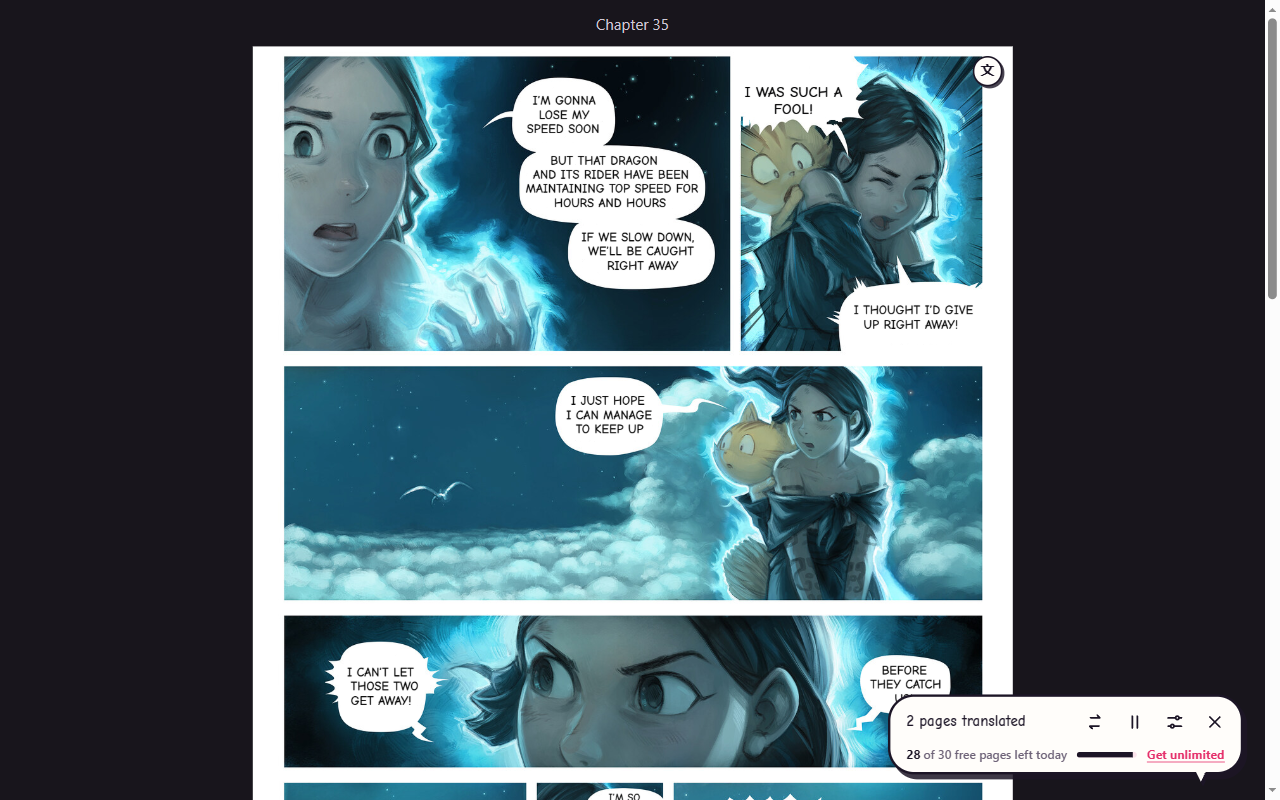
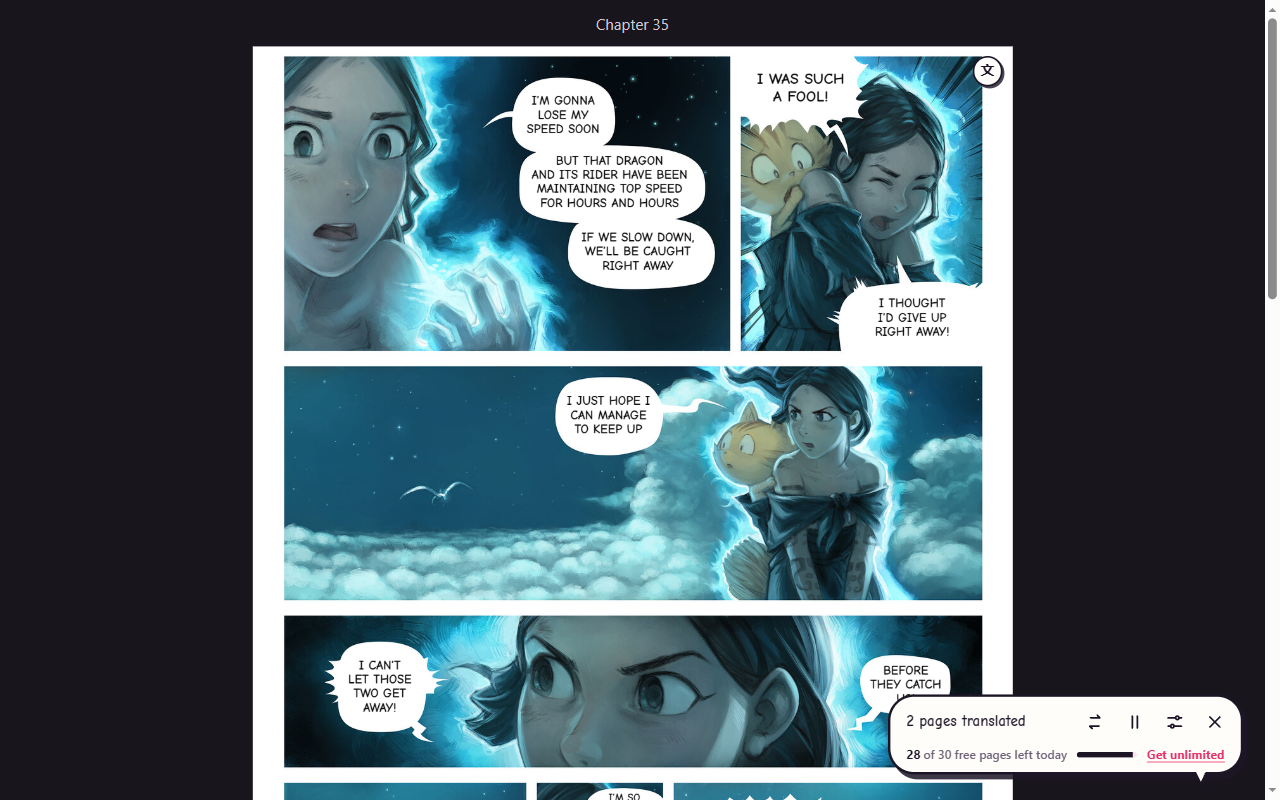
Quality run, store and website images after the lettering changes

diff --git a/tools/quality/CHECKLIST.md b/tools/quality/CHECKLIST.md
@@ -4,29 +4,44 @@ Every text item on the 11 test pages, checked at full resolution in `out/<page>-
 (original crop beside the translated one, made by `sheet.py`). Model: qwen3-vl:4b-instruct.
 
 Columns: **Tr** translated · **Sense** the English means what the Japanese says · **Erased** no
-ghost of the original left · **Bg** background kept as it was · **Fits** inside its bubble or
-source area, with margin · **Outl** outline only where the original had one.
+ghost of the original left · **Bg** background kept as it was · **Fits** see below · **Outl**
+outline only where the original had one.
 
-✓ ok · ✗ fails · ~ acceptable but weak · ⟳ fixed in code after this output was made, checked
-offline (unit test or mask dump), needs a full run to confirm on the page.
+✓ ok · ✗ fails · ~ acceptable but weak · – not there in this run.
+
+**Fits** is checked with `fits.py` and by eye. ✓ needs all of: inside its bubble or source area
+with margin; the middle of the English within 15 % of the original lettering's middle (in a closed
+bubble, at the height of the bubble's middle); at least 85 % of the size allowed (about the
+original lettering's size), unless the lines already fill the original's height; lines on one
+centre. ✗ for more than 25 % off-centre, or smaller than 75 % of the allowed size while filling
+less than 70 % of the original's height (one long small line where wrapping would allow larger
+text). Slanted sound effects are lettered along the original's axis and checked by eye.
 
 ## Which run each page's output comes from
 
-All pages: one full run on 2026-11-22 (`run.mjs`), translator code as of the commit that adds this
-line, with the extension's helper models (`models/`, see the end): the text detector finds the
-bubbles, the vision model only looks for text on the artwork, and MI-GAN repaints the art under
-sound effects. 70.9 s for the 11 pages with nothing cached in Ollama; the old path (the vision model
-finds everything) was about 83 s the same way. With Ollama's prompt cache warm, 44.8 s against 62.8 s.
+All pages: one full run on 2026-11-22 (`run.mjs`, one page at a time), translator code as of the
+commit that adds this line, with the extension's helper models (`models/`, see the end). 72.3 s
+for the 11 pages with nothing cached in Ollama (70.9 s before); with Ollama's prompt cache warm,
+45.1 s (44.8 s before). The lettering changes cost no time: 12.3 s of the warm run is outside the
+model, 13.8 s before.
+
+Reading ahead (`--concurrency=2`: the first page alone, then two at a time): 38.2–38.6 s for the
+11 pages, 17.1–17.3 pages a minute against 13.9–14.4 one at a time; the first page is done after
+5.1–5.5 s either way. Three at a time is no faster (17.3–17.4 a minute). Ollama runs one request
+at a time for qwen3-vl ("model architecture does not currently support parallel requests",
+whatever OLLAMA_NUM_PARALLEL says; a copy of the model under another name shares the same runner),
+so the gain is one page's drawing, cleaning and lettering overlapping the other's model calls.
+More video memory would not help.
 
 ## E01P01 (5 items, 0 skipped)
 
 | # | Original | English | Tr | Sense | Erased | Bg | Fits | Outl | Notes |
 |---|---|---|---|---|---|---|---|---|---|
-| 1 | …これで 出来上がり | …And that's it. | ✓ | ✓ | ✓ | ✓ | ✓ | ✓ | translucent bubble kept |
+| 1 | …これで 出来上がり | …And that's it, done. | ✓ | ✓ | ✓ | ✓ | ✓ | ✓ | translucent bubble kept; two lines like the original |
 | 2 | ぱらぱら (SFX) | FLUTTER | ✓ | ✗ | ✓ | ✓ | ✓ | ✓ | 4b reads はらはら; should be SPRINKLE. 8b reads it right |
-| 3 | …うーん 足りなかった かも | …Hmm, maybe not enough. | ✓ | ✓ | ✓ | ✓ | ✓ | ✓ | |
+| 3 | …うーん 足りなかった かも | …Hmm, maybe I still need more. | ✓ | ✓ | ✓ | ✓ | ✓ | ✓ | |
 | 4 | どばどば (SFX) | GLUG GLUG | ✓ | ✓ | ✓ | ✓ | ✓ | ✓ | 4b reads どはどは; the glossary maps it to GLUG GLUG |
-| 5 | ざぶん (SFX) | SPLASH | ✓ | ✓ | ✓ | ✓ | ✓ | ✓ | 4b reads さぶん (earlier さなん/きぶん). MI-GAN extends the cauldron's dark edge a little into the hole; the lettering covers it |
+| 5 | ざぶん (SFX) | SPLASH | ✓ | ✓ | ✓ | ✓ | ✓ | ✓ | 4b reads さぶん |
 
 ## E01P02 (3 items, 0 skipped)
 
@@ -34,13 +49,13 @@ finds everything) was about 83 s the same way. With Ollama's prompt cache warm, 
 |---|---|---|---|---|---|---|---|---|---|
 | 1 | うん… カンペキ | Yeah… perfect. | ✓ | ✓ | ✓ | ✓ | ✓ | ✓ | |
 | 2 | ダメ！ そんなことしちゃ だめなんだから | No way! You can't do that! | ✓ | ✓ | ✓ | ✓ | ✓ | ✓ | |
-| 3 | パシャ (SFX) | SPLISH | ✓ | ✓ | ✓ | ✓ | ~ | ✓ | the yellow splash beside it is kept (c3129ea) and the colour matches. Lettered at 25 px, smaller than the kana: the English is longer and stays within the source width |
+| 3 | パシャ (SFX) | SPLISH | ✓ | ✓ | ✓ | ✓ | ✓ | ✓ | the yellow splash beside it is kept |
 
 ## E35P01 (4 items, 0 skipped)
 
 | # | Original | English | Tr | Sense | Erased | Bg | Fits | Outl | Notes |
 |---|---|---|---|---|---|---|---|---|---|
-| 1 | ごめん もうすぐ リアが 切れそう | Sorry, the rear's about to cut off... | ✓ | ✗ | ✓ | ✓ | ✓ | ✓ | リア is Rea (magic energy in this comic): "my Rea's about to run out" |
+| 1 | ごめん もうすぐ リアが 切れそう | Sorry, the rear's about to cut off… | ✓ | ✗ | ✓ | ✓ | ✓ | ✓ | リア is Rea (magic energy in this comic). The text block no longer takes in art under the bubble |
 | 2 | あれ お目覚めね! | Hey, you're awake! | ✓ | ✓ | ✓ | ✓ | ✓ | ✓ | split from the bubble chained to it |
 | 3 | 大丈夫？ 寒くない？ | You okay? Not too cold? | ✓ | ✓ | ✓ | ✓ | ✓ | ✓ | |
 | 4 | オーラも 弱ってきて この寒さから 守れないの | My aura's weakening too — can't protect me from this cold anymore. | ✓ | ~ | ✓ | ✓ | ✓ | ✓ | "protect you" |
@@ -49,58 +64,58 @@ finds everything) was about 83 s the same way. With Ollama's prompt cache warm, 
 
 | # | Original | English | Tr | Sense | Erased | Bg | Fits | Outl | Notes |
 |---|---|---|---|---|---|---|---|---|---|
-| 1 | 私バカだった! | I was such a fool! | ✓ | ✓ | ✓ | ✓ | ✓ | ✓ | 24 px; was 18 before fitText stopped preferring a badly measured bubble shape |
-| 2 | もうすぐ加速もできなくなりそう | I'm about to lose the ability to accelerate too. | ✓ | ✓ | ✓ | ✓ | ✓ | ✓ | |
-| 3 | でもあのドラゴンと乗り手は何時間も何時間もスピードを保ってる | But that dragon and its rider have been maintaining top speed for hours and hours | ✓ | ✓ | ✓ | ✓ | ✓ | ✓ | |
-| 4 | 私たちがペースを落としたらすぐ捕まっちゃう | If we slow down, we'll be caught right away | ✓ | ✓ | ✓ | ✓ | ✓ | ✓ | |
+| 1 | 私 バカだった! | I was such a fool! | ✓ | ✓ | ✓ | ✓ | ✓ | ✓ | was lettered low in the area, and a hair tip below was erased: a bit of art at the panel corner was taken for a line of text. Now I WAS SUCH / A FOOL! where the original was, hair kept |
+| 2 | もうすぐ加速もできなくなりそう | I'm about to lose the ability to accelerate too. | ✓ | ✓ | ✓ | ✓ | ~ | ✓ | 16 of 20 px: the English is long for the bubble |
+| 3 | でもあのドラゴンと乗り手は何時間も何時間もスピードを保ってる | But that dragon and its rider have been maintaining top speed for hours and hours. | ✓ | ✓ | ✓ | ✓ | ✓ | ✓ | |
+| 4 | 私たちがペースを落としたらすぐ捕まっちゃう | If we slow down, we'll be caught right away. | ✓ | ✓ | ✓ | ✓ | ✓ | ✓ | |
 | 5 | すぐにあきらめてしまうと思ったのに! | I thought I'd give up right away! | ✓ | ✗ | ✓ | ✓ | ✓ | ✓ | wrong subject: "I thought they'd give up quickly!" |
 | 6 | なんとかうまくまければいいのだけど | I just hope I can manage somehow. | ✓ | ✗ | ✓ | ✓ | ✓ | ✓ | まく = shake off: "I hope we can lose them somehow" |
 | 7 | 捕まえられる前に! | Before they catch us! | ✓ | ✓ | ✓ | ✓ | ✓ | ✓ | |
 | 8 | それじゃ足りないあの二人を倒さないと! | I can't let those two escape! | ✓ | ✗ | ✓ | ✓ | ✓ | ✓ | "That's not enough, we have to take those two down!" |
-| 9 | …つかれた… | I'm so tired... | ✓ | ✓ | ✓ | ✓ | ✓ | ✓ | |
+| 9 | …つかれた… | I'm so tired… | ✓ | ✓ | ✓ | ✓ | ✓ | ✓ | |
 | 10 | いけない! | No! | ✓ | ✓ | ✓ | ✓ | ✓ | ✓ | |
-| 11 | でもわたし… | But me... | ✓ | ~ | ✓ | ✓ | ✓ | ✓ | "But I..." reads better |
+| 11 | でもわたし… | But me… | ✓ | ~ | ✓ | ✓ | ✓ | ✓ | "But I…" reads better |
 | 12 | しっかりしなきゃペッパー! | I've got to stay focused, Pepper! | ✓ | ✓ | ✓ | ✓ | ✓ | ✓ | |
-| 13 | …すごく… | So much... | ✓ | ✓ | ✓ | ✓ | ✓ | ✓ | |
+| 13 | …すごく… | So much… | ✓ | ✓ | ✓ | ✓ | ✓ | ✓ | |
 
 ## E35P03 (4 items, 0 skipped)
 
 | # | Original | English | Tr | Sense | Erased | Bg | Fits | Outl | Notes |
 |---|---|---|---|---|---|---|---|---|---|
-| 1 | そうなったら すぐに攻撃よ | If that's the case, we'll attack right away. | ✓ | ✓ | ✓ | ✓ | ✓ | ✓ | |
-| 2 | ああ この追跡劇も もうすぐ終わる | Ah, this chase scene's almost over. | ✓ | ✓ | ✓ | ✓ | ✓ | ✓ | white on a black bubble |
-| 3 | 今のあれ 見えた？ | Did you see what just happened? | ✓ | ✓ | ✓ | ✓ | ✓ | ✓ | |
-| 4 | まもなく 魔力切れに なりそうだ | Soon, our magic will run out. | ✓ | ✓ | ✓ | ✓ | ✓ | ✓ | white on a black bubble |
+| 1 | そうなったら すぐに攻撃よ | If that's the case, we'll attack right away. | ✓ | ✓ | ✓ | ✓ | ~ | ✓ | the middle line comes close to the outline on the left: the bubble's rows are measured to its light outline, not inside it |
+| 2 | まもなく 魔力切れに なりそうだ | We're gonna run out of magic power soon. | ✓ | ✓ | ✓ | ✓ | ✓ | ✓ | white on a black bubble |
+| 3 | ああ この追跡劇も もうすぐ終わる | Ah, this chase scene's almost over. | ✓ | ✓ | ✓ | ✓ | ✓ | ✓ | white on a black bubble |
+| 4 | 今のあれ 見えた？ | Did you see what just happened? | ✓ | ✓ | ✓ | ✓ | ✓ | ✓ | |
 
 ## E36P01 (3 items, 0 skipped)
 
 | # | Original | English | Tr | Sense | Erased | Bg | Fits | Outl | Notes |
 |---|---|---|---|---|---|---|---|---|---|
-| 1 | 謝罪だと? | Apologize? | ✓ | ✓ | ✓ | ✓ | ✓ | ✓ | |
-| 2 | 何を言っている! | What are you saying! | ✓ | ✓ | ✓ | ✓ | ✓ | ✓ | |
-| 3 | この愚か者を 牢屋に放り込め! | Throw this fool into jail! | ✓ | ✓ | ✓ | ✓ | ✓ | ✓ | 8b left this one untranslated |
+| 1 | 謝罪だと? | Apologize?! | ✓ | ✓ | ✓ | ✓ | ✓ | ✓ | |
+| 2 | 何を言っている! | What are you saying?! | ✓ | ✓ | ✓ | ✓ | ✓ | ✓ | |
+| 3 | この愚か者を 牢屋に放り込め! | Throw this fool into jail! | ✓ | ✓ | ✓ | ✓ | ✓ | ✓ | |
 
 ## E36P02 (5 items, 0 skipped)
 
 | # | Original | English | Tr | Sense | Erased | Bg | Fits | Outl | Notes |
 |---|---|---|---|---|---|---|---|---|---|
-| 1 | 魔法牢獄め! ああああ! | Magic prison! Aaah! | ✓ | ✓ | ✓ | ✓ | ✓ | ✓ | |
-| 2 | プシュウ… (SFX) | PSSSHH | ✓ | ✓ | ✓ | ✓ | ✓ | ~ | the cell bars behind it are repainted (MI-GAN); the old smoothing blurred them. The original has a dark drop shadow; ours has none |
-| 3 | ガラッ! (SFX) | CLANK! | ✓ | ✓ | ✓ | ✓ | ✓ | ✓ | outlined like the original, rotated to its angle; the white splash under it is repainted, not smeared |
+| 1 | プシュウ… (SFX) | PSSSHH | ✓ | ✓ | ✓ | ✓ | ✓ | ~ | the cell bars behind it are repainted (MI-GAN). The original has a dark drop shadow; ours has none |
+| 2 | 魔法牢獄め! ああああ! | Magic prison! Aaah! | ✓ | ✓ | ✓ | ✓ | ✓ | ✓ | |
+| 3 | ガラッ! (SFX) | CLANK! | ✓ | ✓ | ✓ | ✓ | ✓ | ✓ | outlined like the original, rotated to its angle |
 | 4 | もう! | Ugh! | ✓ | ✓ | ✓ | ✓ | ✓ | ✓ | |
-| 5 | 何もできないってことね! | So nothing can be done, huh? | ✓ | ~ | ✓ | ✓ | ✓ | ✓ | Pepper means herself: "So I can't do anything, huh?" The て against the bubble edge is erased |
+| 5 | 何もできないってことね! | So nothing can be done, huh? | ✓ | ~ | ✓ | ✓ | ✓ | ✓ | Pepper means herself: "So I can't do anything, huh?" |
 
 ## E36P03 (9 items, 0 skipped)
 
 | # | Original | English | Tr | Sense | Erased | Bg | Fits | Outl | Notes |
 |---|---|---|---|---|---|---|---|---|---|
 | 1 | しーっ ペッパー! | Shh! Pepper! | ✓ | ✓ | ✓ | ✓ | ✓ | ✓ | translucent bubble |
-| 2 | 私 バカだった! | I was a fool! | ✓ | ✓ | ✓ | ✓ | ✓ | ✓ | |
-| 3 | おとなしく して | Be quiet | ✓ | ✓ | ✓ | ✓ | ✓ | ✓ | no dangling comma |
+| 2 | 私 バカだった! | I was a fool! | ✓ | ✓ | ✓ | ✓ | ✓ | ✓ | was stepped and left of the middle: one row of the spiky bubble stopped at a speck of ink inside the lettering. Now I WAS / A FOOL! on one centre |
+| 3 | おとなしく して | Be quiet! | ✓ | ✓ | ✓ | ✓ | ✓ | ✓ | |
 | 4 | 一体 誰なの?! | Who are you? | ✓ | ✓ | ✓ | ✓ | ✓ | ✓ | |
-| 5 | シュウウ… (SFX) | FSSSH | ✓ | ✓ | ✓ | ✓ | ✓ | ~ | crystal glow kept, FSSSH centred on the original, the "…" dots erased. The bottle's light outline under シ is redrawn (MI-GAN; it used to be a smudge). The original's blue glow is not reproduced |
+| 5 | シュウウ… (SFX) | FSSSH | ✓ | ✓ | ✓ | ✓ | ✓ | ~ | the original's blue glow is not reproduced |
 | 6 | しーっ! 静かにして! | Shh! Be quiet! | ✓ | ✓ | ✓ | ✓ | ✓ | ✓ | |
-| 7 | 来て | Come here! | ✓ | ✓ | ✓ | ✓ | ✓ | ✓ | the text detector boxes it on its own |
+| 7 | 来て | Come here! | ✓ | ✓ | ✓ | ✓ | ~ | ✓ | two lines in the room below the line above; a little left of 来て |
 | 8 | ここから 出してあげる | I'll get you out of here! | ✓ | ✓ | ✓ | ✓ | ✓ | ✓ | |
 | 9 | シチミ? | Chitami? | ✓ | ✗ | ✓ | ✓ | ✓ | ✓ | name: Shichimi |
 
@@ -108,26 +123,26 @@ finds everything) was about 83 s the same way. With Ollama's prompt cache warm, 
 
 | # | Original | English | Tr | Sense | Erased | Bg | Fits | Outl | Notes |
 |---|---|---|---|---|---|---|---|---|---|
-| 1 | やっと… | Finally... | ✓ | ✓ | ✓ | ✓ | ✓ | ✓ | |
-| 2 | この強敵を 仕留めることが できた! | I finally managed to take down this tough enemy! | ✓ | ✓ | ✓ | ✓ | ✓ | ✓ | |
-| 3 | ああ 厄介だった 冒険者たちが 進めなくなるのも よくわかる | Ah, I can see why this was troublesome—those adventurers were really pushing themselves to the limit. | ✓ | ✗ | ✓ | ✓ | ✓ | ✓ | "What a pain. No wonder adventurers couldn't get past it." Split from the chained bubble below |
-| 4 | ブラシックは どうだ? | Brushick, how's he doing? | ✓ | ✓ | ✓ | ✓ | ✓ | ✓ | |
-| 5 | くっ! そんなに 深手を負って いたのか! | Huh! He was really hurt that bad? | ✓ | ~ | ✓ | ✓ | ✓ | ✓ | くっ is a grunt, not "Huh". The prompt gives くっ → Ngh!, 4b ignores it. Stray "!' from the next bubble is gone |
-| 6 | ブラシック? ブラシック! | Brushick? Brushick! | ✓ | ✓ | ✓ | ✓ | ✓ | ✓ | split from the side-by-side bubble |
-| 7 | ヒーラー! 助けて! 今すぐ | Healer! Help me! Now! | ✓ | ✓ | ✓ | ✓ | ✓ | ✓ | |
+| 1 | やっと… | Finally… | ✓ | ✓ | ✓ | ✓ | ✓ | ✓ | |
+| 2 | この強敵を 仕留めることが できた! | I finally managed to take down this tough enemy! | ✓ | ✓ | ✓ | ✓ | ~ | ✓ | 15 of 18 px in five lines: long for the bubble |
+| 3 | ああ 厄介だった 冒険者たちが 進めなくなるのも よくわかる | Ah, I can see why it was troublesome—those adventurers were really pushing themselves to the limit. | ✓ | ✗ | ✓ | ✓ | ~ | ✓ | "What a pain. No wonder adventurers couldn't get past it." Six lines, slightly stepped where the oval narrows |
+| 4 | ブラシックは どうだ? | How's Brushick? | ✓ | ✓ | ✓ | ✓ | ✓ | ✓ | |
+| 5 | ブラシック? ブラシック! | Brushick? Brushick! | ✓ | ✓ | ✓ | ✓ | ✓ | ✓ | split from the side-by-side bubble; a sliver below no longer stretches its box |
+| 6 | ヒーラー! 助けて! 今すぐ | Healer! Help me! Now! | ✓ | ✓ | ✓ | ✓ | ✓ | ✓ | lines on one centre (they were stepped) |
+| 7 | くっ! そんなに 深手を負って いたのか! | Huh? You were really hurt that bad? | ✓ | ~ | ✓ | ✓ | ✓ | ✓ | くっ is a grunt, not "Huh" |
 
 ## E38P02 (8 items, 0 skipped)
 
 | # | Original | English | Tr | Sense | Erased | Bg | Fits | Outl | Notes |
 |---|---|---|---|---|---|---|---|---|---|
-| 1 | 道を開けて… | Clear the path... | ✓ | ✓ | ✓ | ✓ | ✓ | ✓ | |
-| 2 | ズウン (SFX) | THOOM | ✓ | ✓ | ✓ | ✓ | ✓ | ~ | the hand below is untouched. Glow not reproduced |
-| 3 | 傷が… 消えた | The wound... gone. | ✓ | ✓ | ✓ | ✓ | ✓ | ✓ | |
-| 4 | さあ急ごう 宝物が 待っている! | Come on, hurry up! The treasure awaits! | ✓ | ✓ | ✓ | ✓ | ✓ | ✓ | |
-| 5 | そうだ! | Right! | ✓ | ✓ | ✓ | ✓ | ✓ | ✓ | |
-| 6 | いつもながら まるで奇跡だ | As always, it's like a miracle. | ✓ | ✓ | ✓ | ✓ | ✓ | ✓ | |
-| 7 | ヒーラーのおかげで 俺らは無敵! 次の怪物を 倒しに行こう! | Thanks to the healer, we're invincible! Let's go take down the next monster! | ✓ | ✓ | ✓ | ✓ | ✓ | ✓ | 4b read 俺 right this time (earlier as 倆, "they're") |
-| 8 | すばらしい ヒーラーの 力だ! | Awesome healer power! | ✓ | ✓ | ✓ | ✓ | ✓ | ✓ | |
+| 1 | 道を開けて… | Clear the path… | ✓ | ✓ | ✓ | ✓ | ✓ | ✓ | |
+| – | ズウン (SFX) | – | ✗ | – | – | ✓ | – | – | the art look returned nothing in the final runs, so it is left as drawn; earlier runs of the same pipeline code found it (THOOM, THUD). 4b variance |
+| 2 | 傷が… 消えた | The wound… gone. | ✓ | ✓ | ✓ | ✓ | ✓ | ✓ | |
+| 3 | さあ急ごう 宝物が 待っている! | Come on, hurry up! The treasure awaits! | ✓ | ✓ | ✓ | ✓ | ✓ | ✓ | |
+| 4 | そうだ! | Right! | ✓ | ✓ | ✓ | ✓ | ✓ | ✓ | |
+| 5 | いつもながら まるで奇跡だ | As always, it's like a miracle. | ✓ | ✓ | ✓ | ✓ | ✓ | ✓ | |
+| 6 | ヒーラーのおかげで 俺らは無敵! 次の怪物を 倒しに行こう! | Thanks to the healer, we're invincible! Let's go take down the next monster! | ✓ | ✓ | ✓ | ✓ | ✓ | ✓ | |
+| 7 | すばらしい ヒーラーの 力だ! | Awesome healer power! | ✓ | ✓ | ✓ | ✓ | ✓ | ✓ | |
 
 ## E38P03 (4 items, 0 skipped)
 
@@ -140,33 +155,35 @@ finds everything) was about 83 s the same way. With Ollama's prompt cache warm, 
 
 ## Totals (65 items)
 
-| | ✓ | ~ | ⟳ | ✗ |
+| | ✓ | ~ | ✗ | – |
 |---|---|---|---|---|
-| Translated | 65 | | | 0 |
-| Sense | 53 | 5 | | 7 |
-| Erased, no ghost | 65 | | | 0 |
-| Background kept | 65 | | | 0 |
-| Fits | 64 | 1 | | 0 |
-| Outline matches | 62 | 3 | | 0 |
+| Translated | 64 | | 1 | |
+| Sense | 52 | 5 | 7 | 1 |
+| Erased, no ghost | 64 | | | 1 |
+| Background kept | 65 | | | |
+| Fits | 59 | 5 | 0 | 1 |
+| Outline matches | 62 | 2 | | 1 |
 
-Skipped: 0 on every page.
+The previous run, with the old Fits: 65 translated; Sense 53 ✓, 5 ~, 7 ✗; Fits 64 ✓, 1 ~. Under
+the stricter Fits its E35P02 #1 is ✗ (lettered low in the area) and E36P03 #2 and E38P01 #6 are ~
+(stepped lines).
 
 Every ✗ in Sense is the 4b model: a misread (ぱらぱら), a wrong subject or gist, or a name
 transliterated (Rea, Shichimi; a names list in settings fixes those: `run.mjs --terms=terms.txt`).
 
 ## Found in the last runs
 
-- E38P02: the model sometimes reported 待っている! a second time, with its box under the bubble over
-  the torch, and the crop there was lettered as a nonsense sound effect over an erased patch of
-  glow. A loose detection repeating a bubble beside it is dropped.
-- E36P03: at 1024 px the model missed 来て. More lettering of the same size in the same closed
-  bubble is taken with the line the model reported (and the text detector boxes it anyway).
-- E38P02 #2 with the text detector: the art-only look gave a slightly taller box for ズウン and the
-  eraser took the fingertips below it. Growing the erase now runs along the line of text, not across.
-- E01P01 #3: "…Hmm, maybe I still need more." was lettered at 8 px in a corner: the bubble's shape
-  was measured badly and fitText took the tiny shaped fit over the plain box. It now takes the
-  plain box when the shaped fit is much smaller.
-- E38P01 #5: the prompt's くっ → Ngh! does not take with 4b. Left as ~.
+- Lettering made one long line, or sat away from the original's place, in a few items. fitText now
+  breaks lines to about the original text's shape, as even as they go, and the lines share one
+  centre, at the original's middle where the room allows. A line at the end of a block holding
+  one stray mark that lines up with nothing (art at a panel corner, a sliver of outline) no longer
+  joins the block; that also stopped the eraser taking a hair tip on E35P02.
+- A dedicated Japanese OCR model (manga-ocr-base, ONNX, int8 and fp32) was tried in place of the
+  vision model's reading of the bubble crops. On these pages it read worse: it dropped the first
+  line of several crops (私, すぐに, して), added stray 「, and misread 間→問, シ→ン, て→で, 力→カ.
+  In a full run it caused six new ✗ in Sense and fixed two, and was no faster (60.8 s against
+  57.2 s for the vision model with `--source=Japanese`). Not used.
+- E38P02 ズウン: see above.
 
 ## Running it again
 
@@ -175,7 +192,9 @@ transliterated (Rea, Shichimi; a names list in settings fixes those: `run.mjs --
     node tools/quality/run.mjs E36P03 --unload              (one page)
     node tools/quality/run.mjs --no-models                  (without the helper models, the old path)
     node tools/quality/run.mjs --terms=terms.txt            (with a names list)
+    node tools/quality/run.mjs --concurrency=2              (reading ahead, two pages at a time)
     python tools/quality/sheet.py E36P03                    (per-item sheet for checking)
+    python tools/quality/fits.py                            (centring and size of every item)
 
 The helper models are not in the repository. Put them in `tools/quality/models/` (the extension
 downloads the same files, pinned in `extension/detector.js`):
